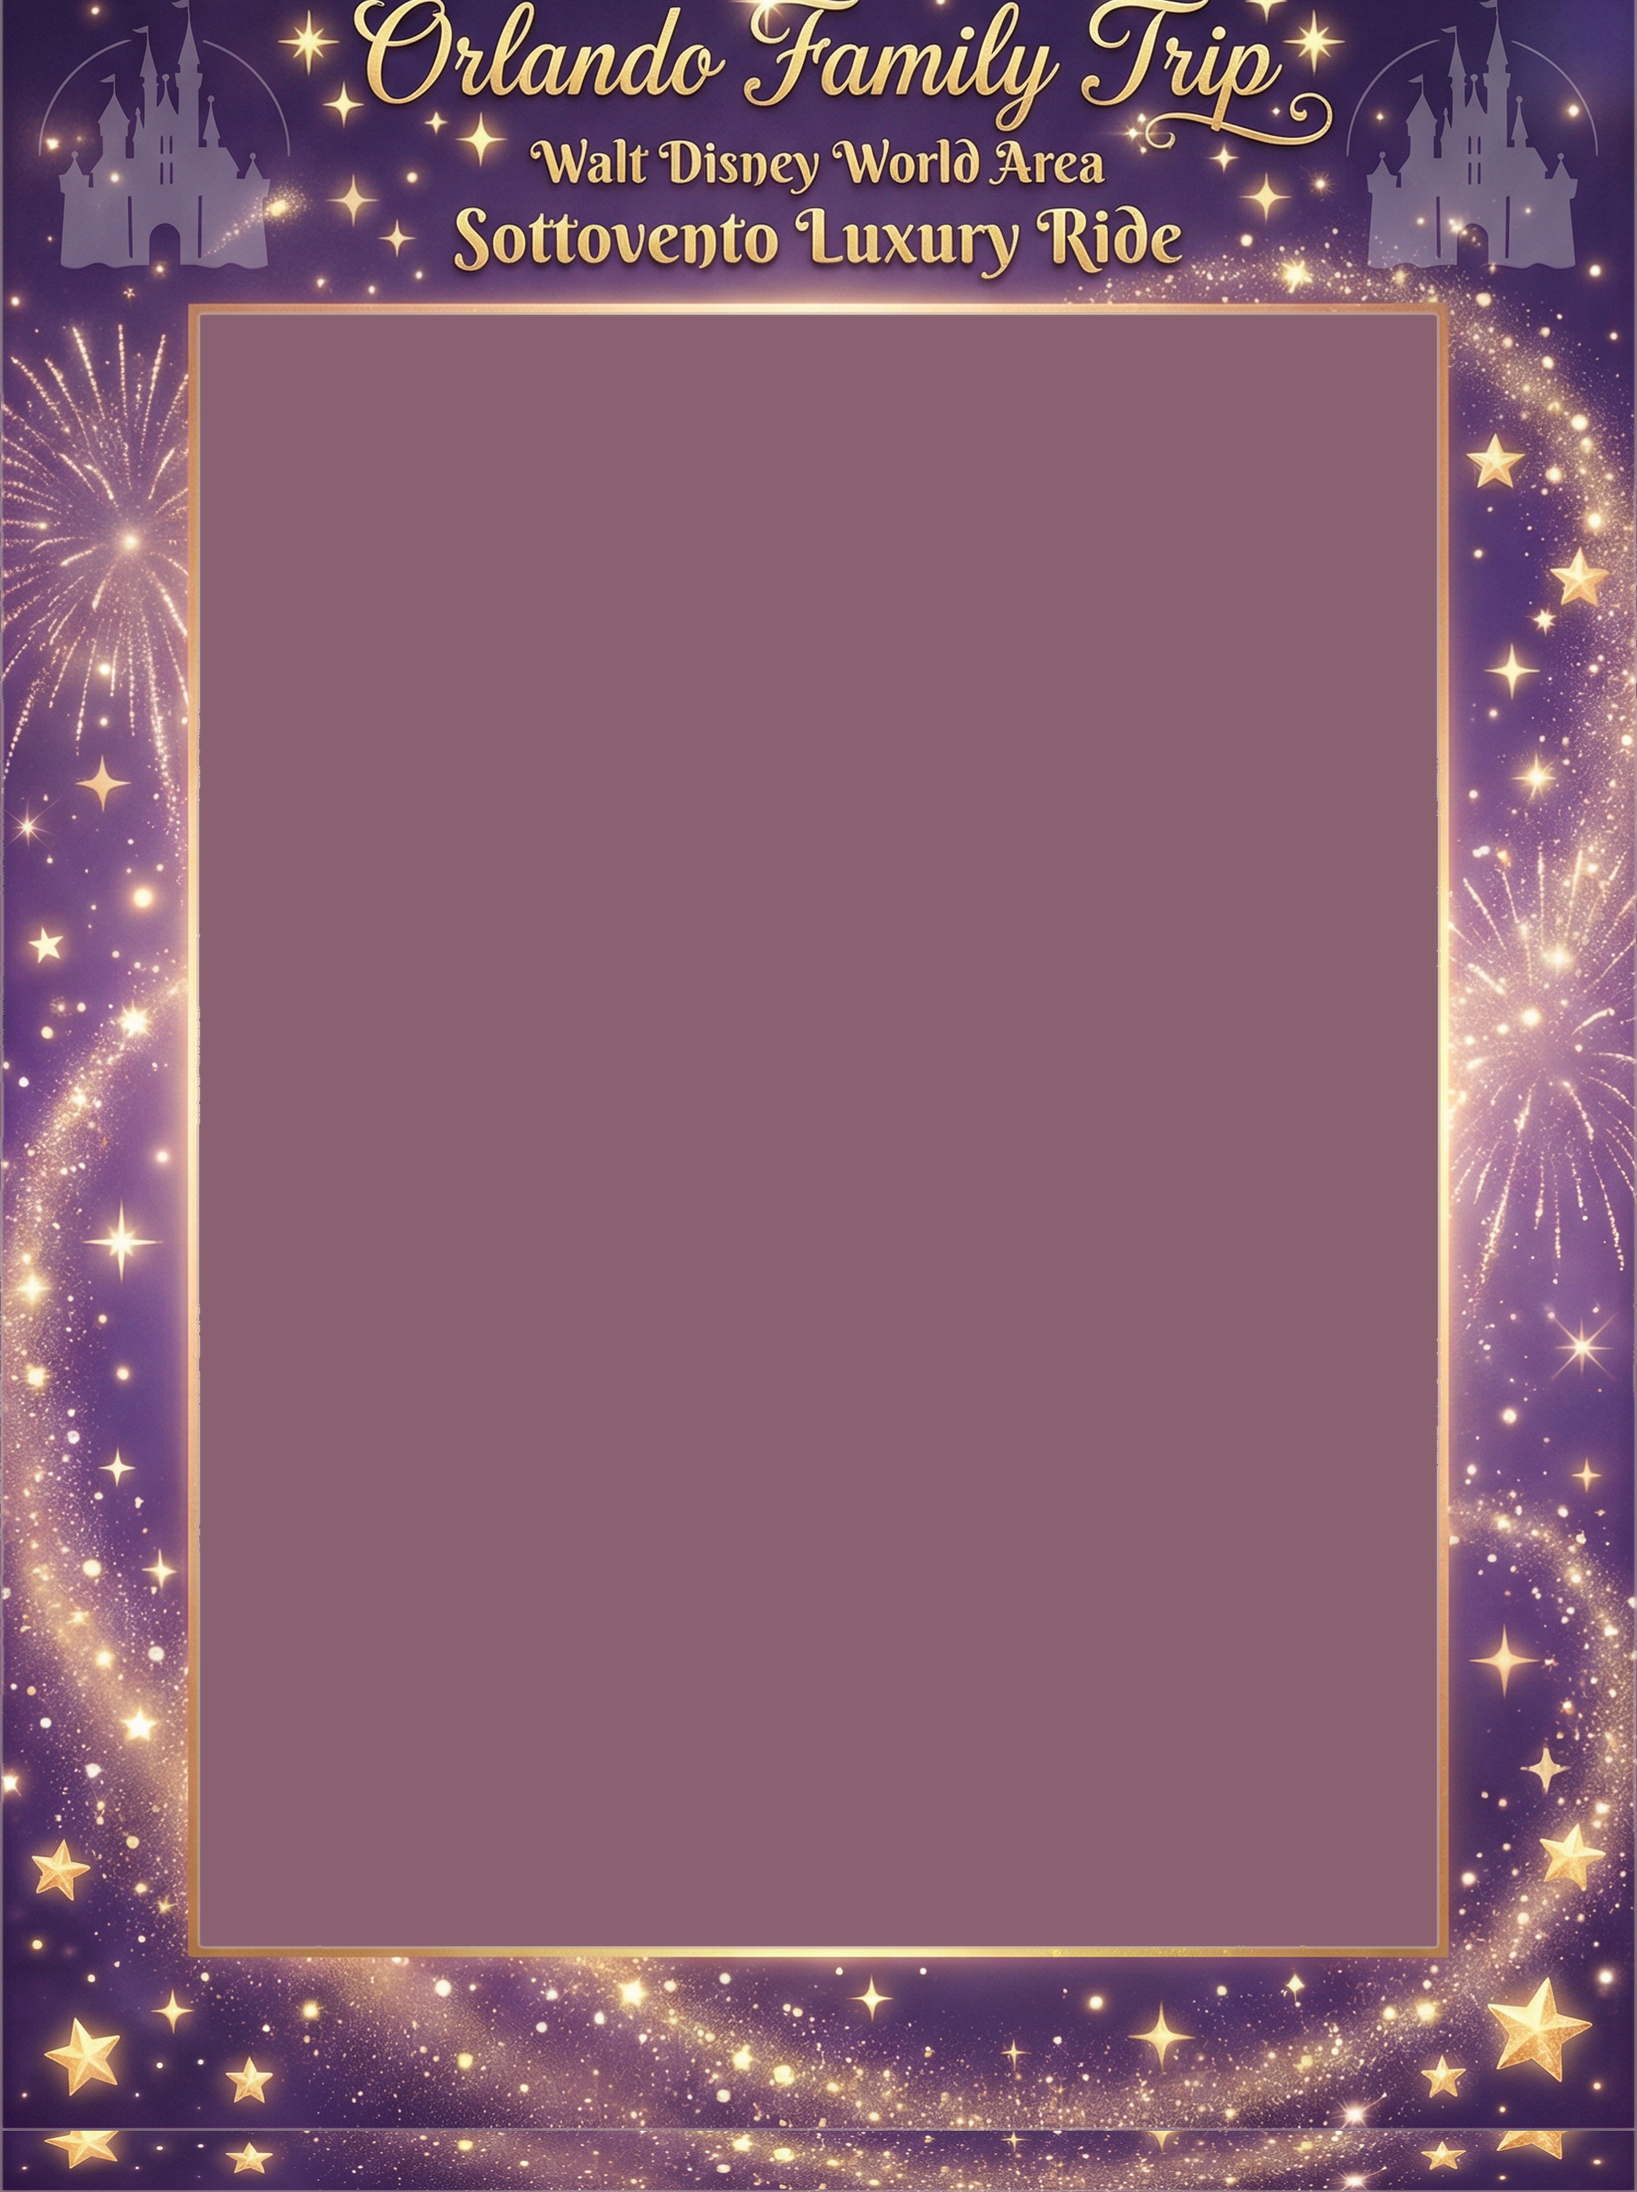
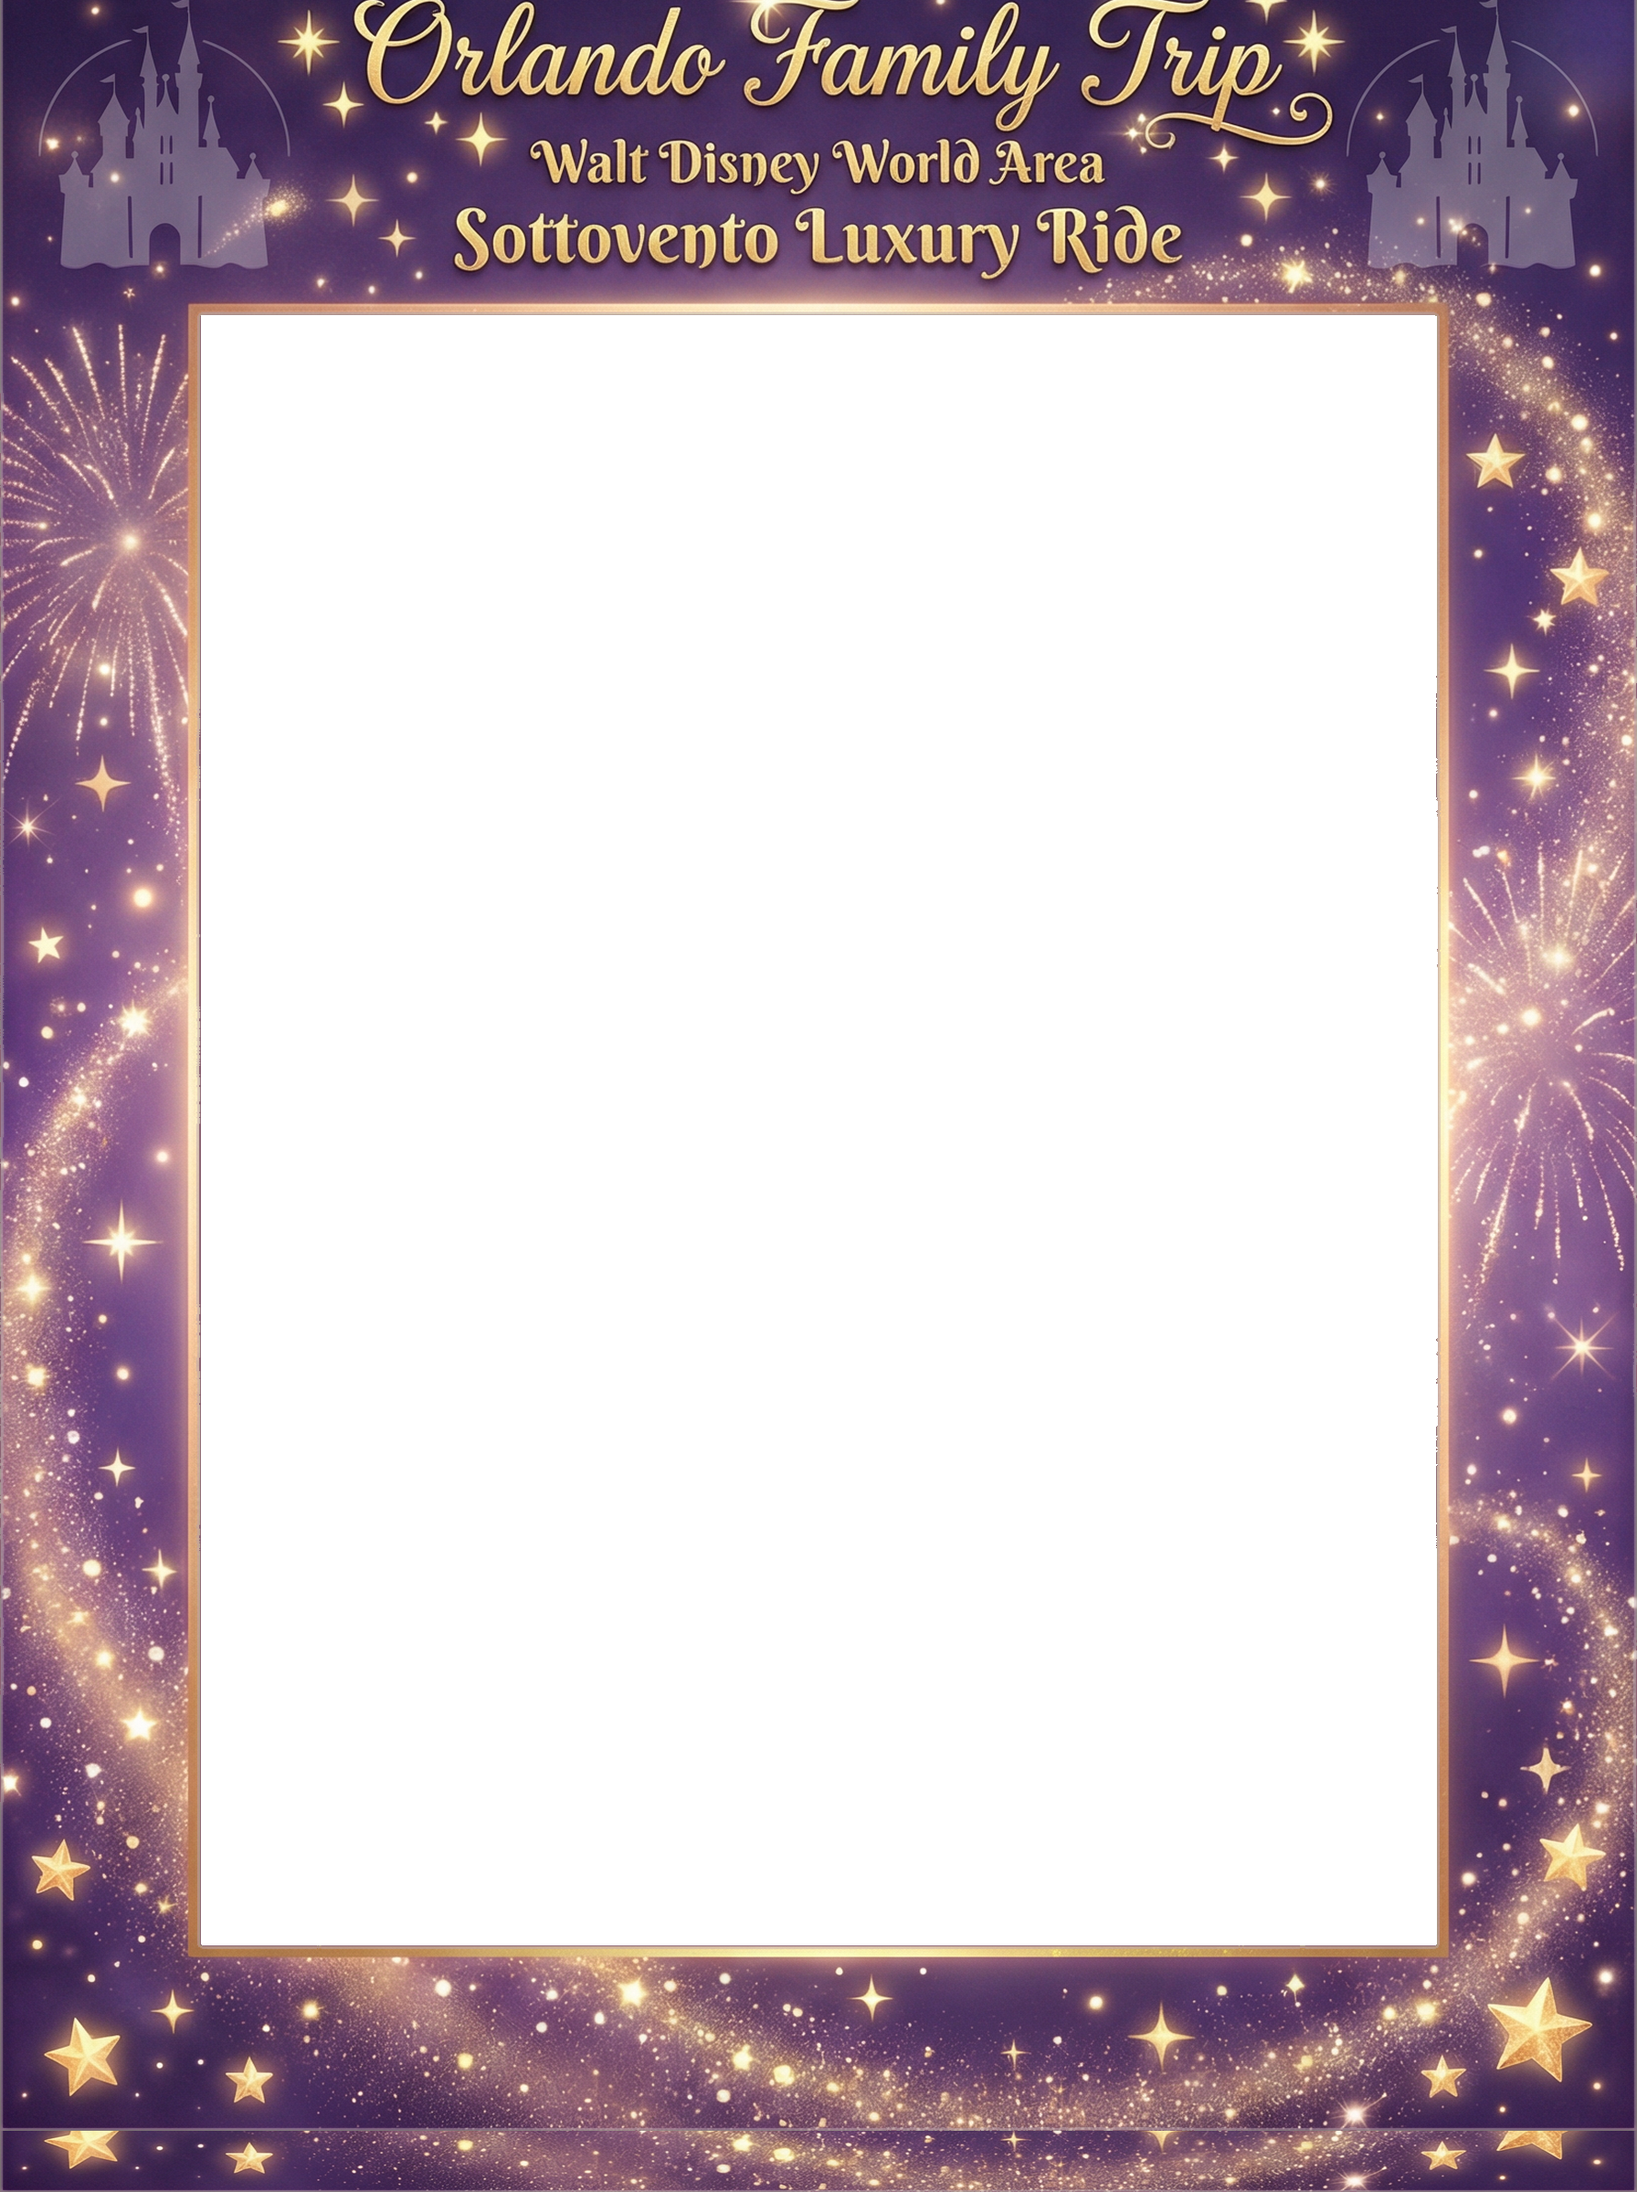
fix: Disney frame transparent window + objectFit contain to prevent text cutoff
- frame-disney.png: restore transparent photo window (purple fill -> alpha=0)
- tablet-kiosk.tsx: change frame overlay objectFit from cover to contain
  so the full frame is always visible without clipping the top text

diff --git a/components/tablet-kiosk.tsx b/components/tablet-kiosk.tsx
@@ -1471,7 +1471,7 @@ function CrownCamera({
             src={frame.frameImage}
             alt=""
             className="absolute inset-0 w-full h-full"
-            style={{ objectFit: "cover", pointerEvents: "none", zIndex: 10 }}
+            style={{ objectFit: "contain", pointerEvents: "none", zIndex: 10 }}
           />
 
           {/* Camera error */}
